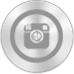
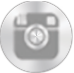
added new clients, fixed soc med img

diff --git a/css/home.css b/css/home.css
@@ -1,6 +1,6 @@
 @import url("http://fonts.googleapis.com/css?family=Alegreya+Sans:400,500,700,400italic,500italic,700italic");
 @import url("http://fonts.googleapis.com/css?family=Alegreya+Sans:400,500,700,400italic,500italic,700italic");
-/* line 17, ../../../.rvm/gems/ruby-2.0.0-p353/gems/compass-0.12.4/frameworks/compass/stylesheets/compass/reset/_utilities.scss */
+/* line 17, ../../../.rvm/gems/ruby-2.1.1/gems/compass-0.12.4/frameworks/compass/stylesheets/compass/reset/_utilities.scss */
 html, body, div, span, applet, object, iframe,
 h1, h2, h3, h4, h5, h6, p, blockquote, pre,
 a, abbr, acronym, address, big, cite, code,
@@ -22,45 +22,45 @@ time, mark, audio, video {
   vertical-align: baseline;
 }
 
-/* line 22, ../../../.rvm/gems/ruby-2.0.0-p353/gems/compass-0.12.4/frameworks/compass/stylesheets/compass/reset/_utilities.scss */
+/* line 22, ../../../.rvm/gems/ruby-2.1.1/gems/compass-0.12.4/frameworks/compass/stylesheets/compass/reset/_utilities.scss */
 html {
   line-height: 1;
 }
 
-/* line 24, ../../../.rvm/gems/ruby-2.0.0-p353/gems/compass-0.12.4/frameworks/compass/stylesheets/compass/reset/_utilities.scss */
+/* line 24, ../../../.rvm/gems/ruby-2.1.1/gems/compass-0.12.4/frameworks/compass/stylesheets/compass/reset/_utilities.scss */
 ol, ul {
   list-style: none;
 }
 
-/* line 26, ../../../.rvm/gems/ruby-2.0.0-p353/gems/compass-0.12.4/frameworks/compass/stylesheets/compass/reset/_utilities.scss */
+/* line 26, ../../../.rvm/gems/ruby-2.1.1/gems/compass-0.12.4/frameworks/compass/stylesheets/compass/reset/_utilities.scss */
 table {
   border-collapse: collapse;
   border-spacing: 0;
 }
 
-/* line 28, ../../../.rvm/gems/ruby-2.0.0-p353/gems/compass-0.12.4/frameworks/compass/stylesheets/compass/reset/_utilities.scss */
+/* line 28, ../../../.rvm/gems/ruby-2.1.1/gems/compass-0.12.4/frameworks/compass/stylesheets/compass/reset/_utilities.scss */
 caption, th, td {
   text-align: left;
   font-weight: normal;
   vertical-align: middle;
 }
 
-/* line 30, ../../../.rvm/gems/ruby-2.0.0-p353/gems/compass-0.12.4/frameworks/compass/stylesheets/compass/reset/_utilities.scss */
+/* line 30, ../../../.rvm/gems/ruby-2.1.1/gems/compass-0.12.4/frameworks/compass/stylesheets/compass/reset/_utilities.scss */
 q, blockquote {
   quotes: none;
 }
-/* line 103, ../../../.rvm/gems/ruby-2.0.0-p353/gems/compass-0.12.4/frameworks/compass/stylesheets/compass/reset/_utilities.scss */
+/* line 103, ../../../.rvm/gems/ruby-2.1.1/gems/compass-0.12.4/frameworks/compass/stylesheets/compass/reset/_utilities.scss */
 q:before, q:after, blockquote:before, blockquote:after {
   content: "";
   content: none;
 }
 
-/* line 32, ../../../.rvm/gems/ruby-2.0.0-p353/gems/compass-0.12.4/frameworks/compass/stylesheets/compass/reset/_utilities.scss */
+/* line 32, ../../../.rvm/gems/ruby-2.1.1/gems/compass-0.12.4/frameworks/compass/stylesheets/compass/reset/_utilities.scss */
 a img {
   border: none;
 }
 
-/* line 116, ../../../.rvm/gems/ruby-2.0.0-p353/gems/compass-0.12.4/frameworks/compass/stylesheets/compass/reset/_utilities.scss */
+/* line 116, ../../../.rvm/gems/ruby-2.1.1/gems/compass-0.12.4/frameworks/compass/stylesheets/compass/reset/_utilities.scss */
 article, aside, details, figcaption, figure, footer, header, hgroup, menu, nav, section, summary {
   display: block;
 }
@@ -278,7 +278,7 @@ form {
   color: #21a532;
 }
 
-/* line 17, ../../../.rvm/gems/ruby-2.0.0-p353/gems/compass-0.12.4/frameworks/compass/stylesheets/compass/reset/_utilities.scss */
+/* line 17, ../../../.rvm/gems/ruby-2.1.1/gems/compass-0.12.4/frameworks/compass/stylesheets/compass/reset/_utilities.scss */
 html, body, div, span, applet, object, iframe,
 h1, h2, h3, h4, h5, h6, p, blockquote, pre,
 a, abbr, acronym, address, big, cite, code,
@@ -300,45 +300,45 @@ time, mark, audio, video {
   vertical-align: baseline;
 }
 
-/* line 22, ../../../.rvm/gems/ruby-2.0.0-p353/gems/compass-0.12.4/frameworks/compass/stylesheets/compass/reset/_utilities.scss */
+/* line 22, ../../../.rvm/gems/ruby-2.1.1/gems/compass-0.12.4/frameworks/compass/stylesheets/compass/reset/_utilities.scss */
 html {
   line-height: 1;
 }
 
-/* line 24, ../../../.rvm/gems/ruby-2.0.0-p353/gems/compass-0.12.4/frameworks/compass/stylesheets/compass/reset/_utilities.scss */
+/* line 24, ../../../.rvm/gems/ruby-2.1.1/gems/compass-0.12.4/frameworks/compass/stylesheets/compass/reset/_utilities.scss */
 ol, ul {
   list-style: none;
 }
 
-/* line 26, ../../../.rvm/gems/ruby-2.0.0-p353/gems/compass-0.12.4/frameworks/compass/stylesheets/compass/reset/_utilities.scss */
+/* line 26, ../../../.rvm/gems/ruby-2.1.1/gems/compass-0.12.4/frameworks/compass/stylesheets/compass/reset/_utilities.scss */
 table {
   border-collapse: collapse;
   border-spacing: 0;
 }
 
-/* line 28, ../../../.rvm/gems/ruby-2.0.0-p353/gems/compass-0.12.4/frameworks/compass/stylesheets/compass/reset/_utilities.scss */
+/* line 28, ../../../.rvm/gems/ruby-2.1.1/gems/compass-0.12.4/frameworks/compass/stylesheets/compass/reset/_utilities.scss */
 caption, th, td {
   text-align: left;
   font-weight: normal;
   vertical-align: middle;
 }
 
-/* line 30, ../../../.rvm/gems/ruby-2.0.0-p353/gems/compass-0.12.4/frameworks/compass/stylesheets/compass/reset/_utilities.scss */
+/* line 30, ../../../.rvm/gems/ruby-2.1.1/gems/compass-0.12.4/frameworks/compass/stylesheets/compass/reset/_utilities.scss */
 q, blockquote {
   quotes: none;
 }
-/* line 103, ../../../.rvm/gems/ruby-2.0.0-p353/gems/compass-0.12.4/frameworks/compass/stylesheets/compass/reset/_utilities.scss */
+/* line 103, ../../../.rvm/gems/ruby-2.1.1/gems/compass-0.12.4/frameworks/compass/stylesheets/compass/reset/_utilities.scss */
 q:before, q:after, blockquote:before, blockquote:after {
   content: "";
   content: none;
 }
 
-/* line 32, ../../../.rvm/gems/ruby-2.0.0-p353/gems/compass-0.12.4/frameworks/compass/stylesheets/compass/reset/_utilities.scss */
+/* line 32, ../../../.rvm/gems/ruby-2.1.1/gems/compass-0.12.4/frameworks/compass/stylesheets/compass/reset/_utilities.scss */
 a img {
   border: none;
 }
 
-/* line 116, ../../../.rvm/gems/ruby-2.0.0-p353/gems/compass-0.12.4/frameworks/compass/stylesheets/compass/reset/_utilities.scss */
+/* line 116, ../../../.rvm/gems/ruby-2.1.1/gems/compass-0.12.4/frameworks/compass/stylesheets/compass/reset/_utilities.scss */
 article, aside, details, figcaption, figure, footer, header, hgroup, menu, nav, section, summary {
   display: block;
 }

diff --git a/css/app.css b/css/app.css
@@ -3,7 +3,7 @@
  * Import this file using the following HTML or equivalent:
  * <link href="/stylesheets/screen.css" media="screen, projection" rel="stylesheet" type="text/css" /> */
 @import url("http://fonts.googleapis.com/css?family=Alegreya+Sans:400,500,700,400italic,500italic,700italic");
-/* line 17, ../../../.rvm/gems/ruby-2.0.0-p353/gems/compass-0.12.4/frameworks/compass/stylesheets/compass/reset/_utilities.scss */
+/* line 17, ../../../.rvm/gems/ruby-2.1.1/gems/compass-0.12.4/frameworks/compass/stylesheets/compass/reset/_utilities.scss */
 html, body, div, span, applet, object, iframe,
 h1, h2, h3, h4, h5, h6, p, blockquote, pre,
 a, abbr, acronym, address, big, cite, code,
@@ -25,45 +25,45 @@ time, mark, audio, video {
   vertical-align: baseline;
 }
 
-/* line 22, ../../../.rvm/gems/ruby-2.0.0-p353/gems/compass-0.12.4/frameworks/compass/stylesheets/compass/reset/_utilities.scss */
+/* line 22, ../../../.rvm/gems/ruby-2.1.1/gems/compass-0.12.4/frameworks/compass/stylesheets/compass/reset/_utilities.scss */
 html {
   line-height: 1;
 }
 
-/* line 24, ../../../.rvm/gems/ruby-2.0.0-p353/gems/compass-0.12.4/frameworks/compass/stylesheets/compass/reset/_utilities.scss */
+/* line 24, ../../../.rvm/gems/ruby-2.1.1/gems/compass-0.12.4/frameworks/compass/stylesheets/compass/reset/_utilities.scss */
 ol, ul {
   list-style: none;
 }
 
-/* line 26, ../../../.rvm/gems/ruby-2.0.0-p353/gems/compass-0.12.4/frameworks/compass/stylesheets/compass/reset/_utilities.scss */
+/* line 26, ../../../.rvm/gems/ruby-2.1.1/gems/compass-0.12.4/frameworks/compass/stylesheets/compass/reset/_utilities.scss */
 table {
   border-collapse: collapse;
   border-spacing: 0;
 }
 
-/* line 28, ../../../.rvm/gems/ruby-2.0.0-p353/gems/compass-0.12.4/frameworks/compass/stylesheets/compass/reset/_utilities.scss */
+/* line 28, ../../../.rvm/gems/ruby-2.1.1/gems/compass-0.12.4/frameworks/compass/stylesheets/compass/reset/_utilities.scss */
 caption, th, td {
   text-align: left;
   font-weight: normal;
   vertical-align: middle;
 }
 
-/* line 30, ../../../.rvm/gems/ruby-2.0.0-p353/gems/compass-0.12.4/frameworks/compass/stylesheets/compass/reset/_utilities.scss */
+/* line 30, ../../../.rvm/gems/ruby-2.1.1/gems/compass-0.12.4/frameworks/compass/stylesheets/compass/reset/_utilities.scss */
 q, blockquote {
   quotes: none;
 }
-/* line 103, ../../../.rvm/gems/ruby-2.0.0-p353/gems/compass-0.12.4/frameworks/compass/stylesheets/compass/reset/_utilities.scss */
+/* line 103, ../../../.rvm/gems/ruby-2.1.1/gems/compass-0.12.4/frameworks/compass/stylesheets/compass/reset/_utilities.scss */
 q:before, q:after, blockquote:before, blockquote:after {
   content: "";
   content: none;
 }
 
-/* line 32, ../../../.rvm/gems/ruby-2.0.0-p353/gems/compass-0.12.4/frameworks/compass/stylesheets/compass/reset/_utilities.scss */
+/* line 32, ../../../.rvm/gems/ruby-2.1.1/gems/compass-0.12.4/frameworks/compass/stylesheets/compass/reset/_utilities.scss */
 a img {
   border: none;
 }
 
-/* line 116, ../../../.rvm/gems/ruby-2.0.0-p353/gems/compass-0.12.4/frameworks/compass/stylesheets/compass/reset/_utilities.scss */
+/* line 116, ../../../.rvm/gems/ruby-2.1.1/gems/compass-0.12.4/frameworks/compass/stylesheets/compass/reset/_utilities.scss */
 article, aside, details, figcaption, figure, footer, header, hgroup, menu, nav, section, summary {
   display: block;
 }

diff --git a/clients/index.html b/clients/index.html
@@ -72,6 +72,16 @@ title: Clients
 		</div>
 
 		<div class = "item celebrity">
+			<img src="{{ site.baseurl }}/img/clients/jenny-mccarthy.jpg">
+		 <!-- Jenny McCarthy -->
+		</div>
+
+		<div class = "item celebrity">
+			<img src="{{ site.baseurl }}/img/clients/sherri-shepherd.jpg">
+		 <!-- Sherri Sheperd -->
+		</div>
+
+		<div class = "item celebrity">
 			<img src="{{ site.baseurl }}/img/clients/laura-styles.jpg">
 		 <!-- Laura Styles -->
 		</div>
@@ -114,6 +124,11 @@ title: Clients
 		<div class = "item tv">
 			<img src="{{ site.baseurl }}/img/clients/hot97.jpg">
 		 <!-- Hot 97 -->
+		</div>
+
+		<div class = "item tv">
+			<img src="{{ site.baseurl }}/img/clients/the-view.jpg">
+		 <!-- The View -->
 		</div>
 	</div>
 </section>
